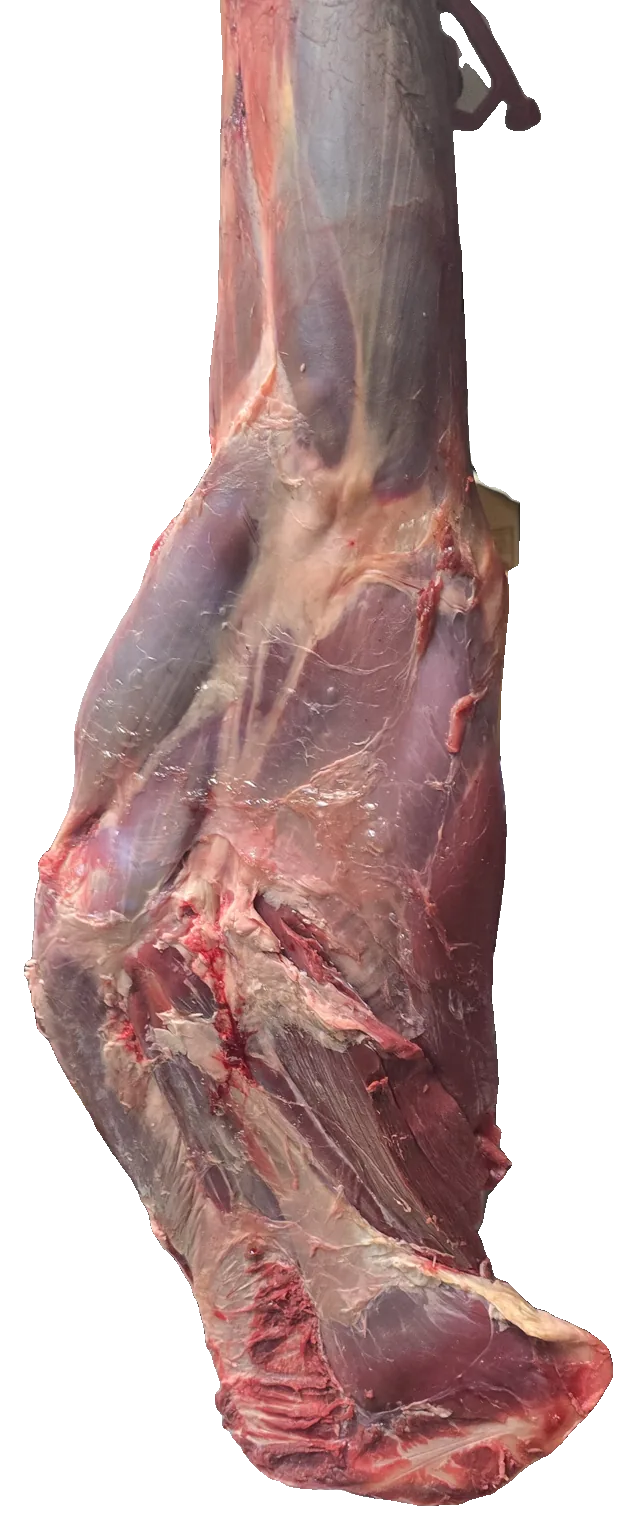
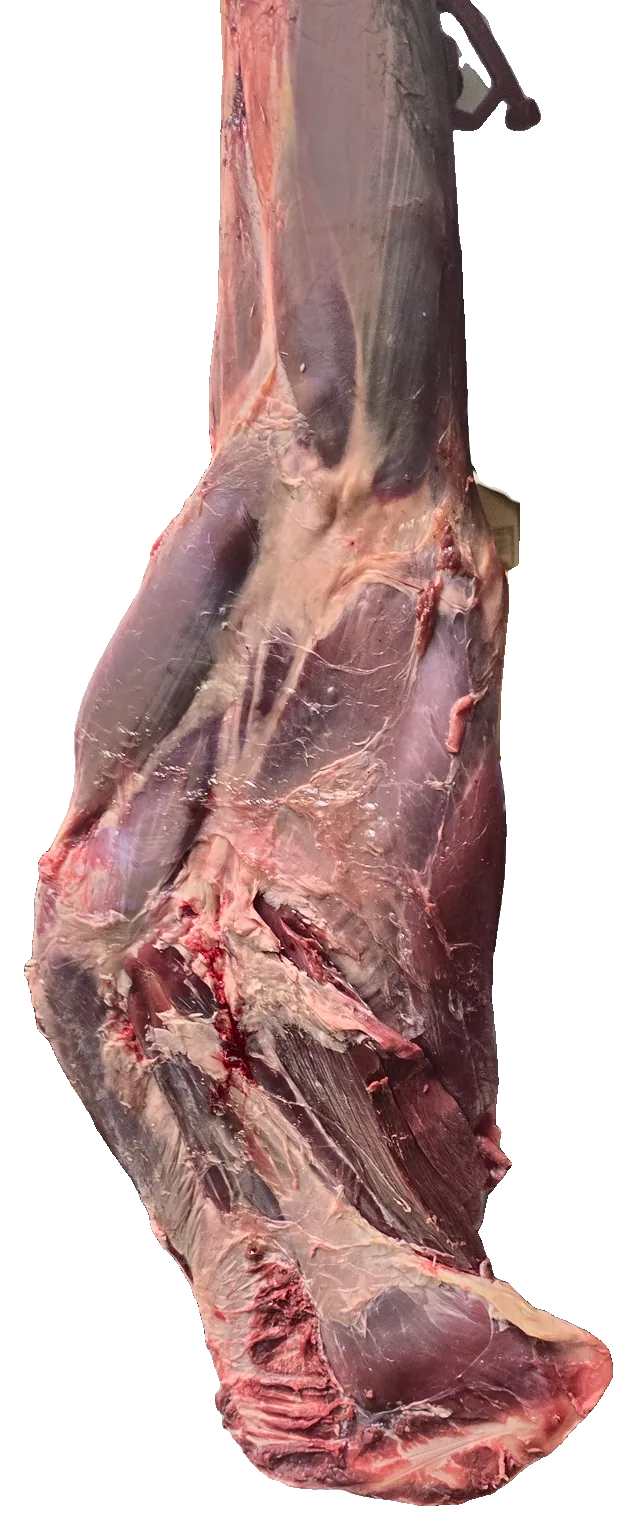
Cut-out photos: tone down shop-light glare on the meat
Claude-Session: https://claude.ai/code/session_011ipzMPp5ZaYHtzx8uVre3s

diff --git a/tools/cutout.py b/tools/cutout.py
@@ -1,25 +1,49 @@
 #!/usr/bin/env python3
 """Cut a quarter out of its background for the Break down viewer.
 
-  uv run --with "rembg[cpu]" --with scipy tools/cutout.py OUT_DIR name=photo.jpg[@x0,y0,x1,y1 ...] ...
+  uv run --with "rembg[cpu]" --with scipy --with opencv-python-headless tools/cutout.py OUT_DIR name=photo.jpg[@x0,y0,x1,y1 ...] ...
 
 Writes OUT_DIR/<name>.webp (transparent background, cropped to the meat) and prints
 the view box for hunt.json: {"img", "box": [x, y, w, h]}. The box is in the
 coordinates of the photo shrunk to fit 1500x2000, the same coordinates annotate.py
 specs and hunt.json regions use, so outlines drawn on the original photo still line up.
 Only the biggest piece (the quarter, plus a hand holding it) is kept; hooks, coolers
-and other stray bits are dropped.
+and other stray bits are dropped, and glare from the shop light is toned down.
 """
 import json
 import sys
 from pathlib import Path
 
+import cv2
 import numpy as np
 from PIL import Image, ImageOps
 from rembg import new_session, remove
 from scipy import ndimage
 
 PAD = 24
+
+
+def deglare(rgb, alpha):
+    """Tame shop-light glare on the meat: pull washed-out, too-bright patches back toward the
+    meat's own brightness and color, then add a little local contrast. Background is ignored."""
+    m = alpha > 128
+    lab = cv2.cvtColor(rgb, cv2.COLOR_RGB2LAB).astype(np.float32)
+    L, a, b = lab[..., 0], lab[..., 1] - 128, lab[..., 2] - 128
+    c = np.hypot(a, b)
+    lo, hi = np.percentile(L[m], [50, 99.5]); cmed = np.median(c[m]); am, bm = np.median(a[m]), np.median(b[m])
+    bright = np.clip((L - lo) / (hi - lo), 0, 1) ** 1.3
+    washed = np.clip((L - np.percentile(L[m], 35)) / 40, 0, 1) * np.clip((cmed - c) / (cmed * .55), 0, 1)
+    w = np.maximum(bright, washed) * m                       # 0 on normal meat, 1 in the worst glare
+    w = cv2.GaussianBlur(w.astype(np.float32), (0, 0), 8)
+    L2 = L - w * np.maximum(L - lo, 0) * 0.8
+    k = 1 + w * 0.6
+    a2 = a * k * (1 - w * .55) + am * w * .55                # wash the color back toward the meat's own
+    b2 = b * k * (1 - w * .55) + bm * w * .55
+    out = np.dstack([L2, a2 + 128, b2 + 128]).clip(0, 255).astype(np.uint8)
+    out = cv2.cvtColor(out, cv2.COLOR_LAB2RGB)
+    lab = cv2.cvtColor(out, cv2.COLOR_RGB2LAB)
+    lab[..., 0] = cv2.createCLAHE(clipLimit=1.5, tileGridSize=(6, 6)).apply(lab[..., 0])
+    return cv2.cvtColor(lab, cv2.COLOR_LAB2RGB)
 
 
 def cut(session, src, dest, erase=()):
@@ -37,6 +61,7 @@ def cut(session, src, dest, erase=()):
         keep = np.isin(lab, [i + 1 for i, s in enumerate(sizes) if s >= sizes.max() * 0.15])
         keep = ndimage.binary_fill_holes(ndimage.binary_dilation(keep, iterations=8) & alpha)
         a[..., 3] = np.where(keep, a[..., 3], 0)
+    a[..., :3] = deglare(np.ascontiguousarray(a[..., :3]), a[..., 3])
     ys, xs = np.nonzero(a[..., 3] > 40)
     x0, y0 = max(0, xs.min() - PAD), max(0, ys.min() - PAD)
     x1, y1 = min(im.width, xs.max() + PAD), min(im.height, ys.max() + PAD)

diff --git a/README.md b/README.md
@@ -33,7 +33,7 @@ A piece's `views` are cut-out photos with the cuts outlined on them:
 
 ```sh
 # raw photos go in photos/<hunt>/raw/ (not in git); @x0,y0,x1,y1 erases a box of junk first
-uv run --with "rembg[cpu]" --with scipy tools/cutout.py photos/2026-elk/cut s2-outside=photos/2026-elk/raw/s2-outside.jpg
+uv run --with "rembg[cpu]" --with scipy --with opencv-python-headless tools/cutout.py photos/2026-elk/cut s2-outside=photos/2026-elk/raw/s2-outside.jpg
 ```
 
 It prints the `img` and `box` for the view. Region points are in the photo shrunk to fit 1500x2000
